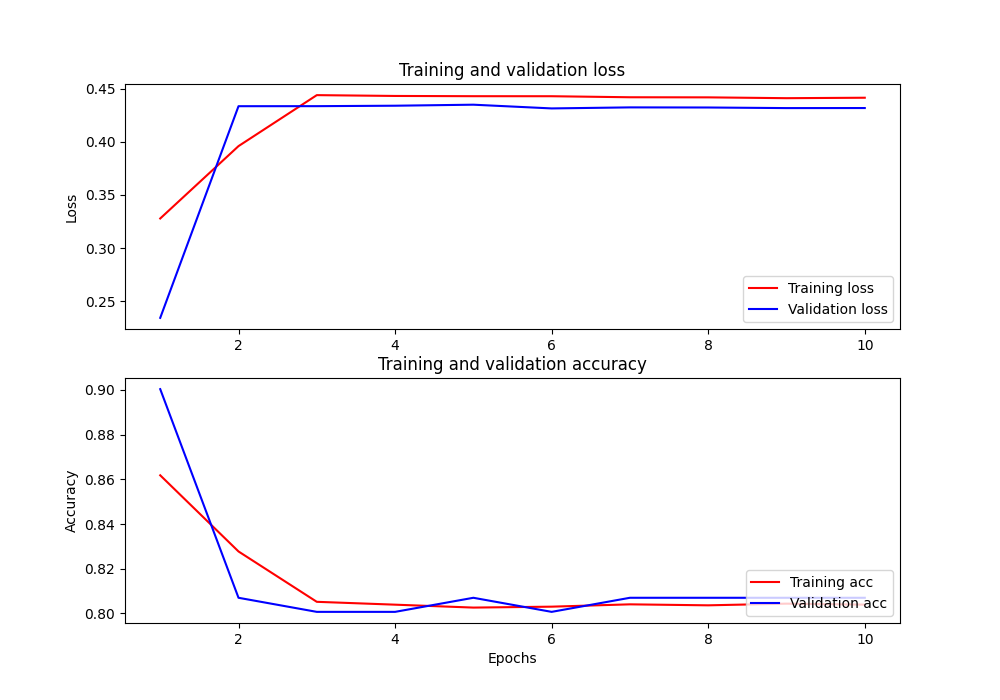
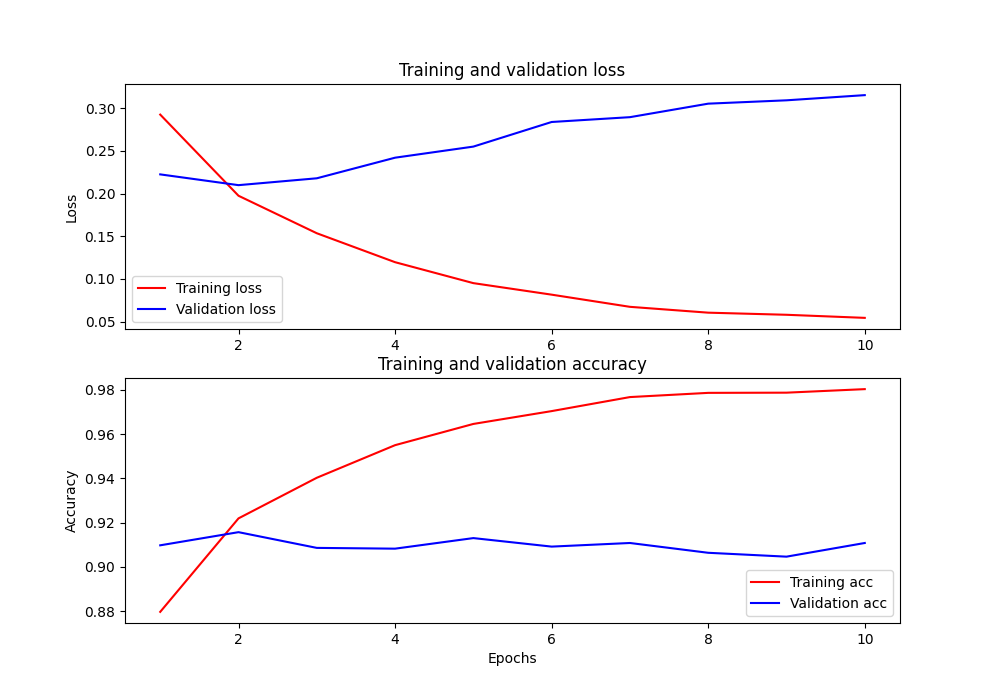
Fix bert training

diff --git a/src/train.py b/src/train.py
@@ -41,10 +41,10 @@ def train(config, model: nn.Module, results_dir):
     lr=config.lr,
     weight_decay=config.weight_decay)
   criterion = nn.BCEWithLogitsLoss()
-  lr_scheduler = get_cosine_schedule_with_warmup(
-    optimizer,
-    num_warmup_steps=config.warmup_steps, 
-    num_training_steps=num_training_steps)
+  # lr_scheduler = get_cosine_schedule_with_warmup(
+  #   optimizer,
+  #   num_warmup_steps=config.warmup_steps, 
+  #   num_training_steps=num_training_steps)
 
   for epoch_num in range(num_epochs):
     model.train()
@@ -55,14 +55,15 @@ def train(config, model: nn.Module, results_dir):
     for batch_iter, batch in enumerate(data_iterator):
       optimizer.zero_grad()
       inputs = batch['input_ids'].to(device, dtype=torch.long)
-      attention_masks = batch['attention_mask'].to(device, dtype=torch.float)
+      attention_masks = batch['attention_mask'].to(device, dtype=torch.long)
+      token_type_ids = batch['token_type_ids'].to(device, dtype=torch.long)
       labels = batch['label'].to(device, dtype=torch.float)
-      output = model(input_id=inputs, mask=attention_masks)
+      output = model(input_ids=inputs, attn_mask=attention_masks, token_type_ids=token_type_ids)
 
       loss = criterion(output, labels)
       loss.backward()
       optimizer.step()
-      lr_scheduler.step()
+      # lr_scheduler.step()
 
       # Calculate statistics
       current_accuracy = compute_accuracy(output, labels)
@@ -79,9 +80,10 @@ def train(config, model: nn.Module, results_dir):
     with torch.no_grad():
       for batch in validation_loader:
         inputs = batch['input_ids'].to(device, dtype=torch.long)
-        attention_masks = batch['attention_mask'].to(device, dtype=torch.float)
+        attention_masks = batch['attention_mask'].to(device, dtype=torch.long)
+        token_type_ids = batch['token_type_ids'].to(device, dtype=torch.long)
         labels = batch['label'].to(device, dtype=torch.float)
-        output = model(input_id=inputs, mask=attention_masks)
+        output = model(input_ids=inputs, attn_mask=attention_masks, token_type_ids=token_type_ids)
         loss = criterion(output, labels)
         val_loss += loss.item()
         val_accuracy += compute_accuracy(output, labels)

diff --git a/src/models/bert.py b/src/models/bert.py
@@ -7,15 +7,19 @@ class BertClassifier(nn.Module):
   def __init__(self, config):
     super(BertClassifier, self).__init__()
     self.config = config
-    self.bert = BertModel.from_pretrained(config.bert_version)
+    self.bert = BertModel.from_pretrained(config.bert_version, return_dict=True)
     self.dropout = nn.Dropout(config.dropout)
     self.linear = nn.Linear(config.output_dim, config.num_classes)
     self.relu = nn.ReLU()
 
-  def forward(self, input_id, mask):
+  def forward(self, input_ids, attn_mask, token_type_ids):
+    output = self.bert(
+      input_ids, 
+      attention_mask=attn_mask, 
+      token_type_ids=token_type_ids)
+    
     # pooled_output - CLS token
-    _, pooled_output = self.bert(input_ids=input_id, attention_mask=mask, return_dict=False)
-    dropout_output = self.dropout(pooled_output)
+    dropout_output = self.dropout(output.pooler_output)
     linear_output = self.linear(dropout_output)
 
     return linear_output

diff --git a/src/data_processing/ev_parser.py b/src/data_processing/ev_parser.py
@@ -29,7 +29,7 @@ class EvDataset(Dataset):
     encoding = self.tokenizer.encode_plus(
       review,
       add_special_tokens=True, # Add [CLS] [SEP] tokens
-      return_token_type_ids=False,
+      return_token_type_ids=True,
       padding='max_length',
       max_length=512, 
       truncation=True,
@@ -39,12 +39,14 @@ class EvDataset(Dataset):
 
     input_ids = encoding['input_ids'].flatten()
     attn_mask = encoding['attention_mask'].flatten()
+    token_type_ids = encoding["token_type_ids"].flatten()
 
     return {
       'review_text': review,
       'input_ids': input_ids,
       'attention_mask': attn_mask,
-      'label': torch.tensor(target, dtype=torch.int)
+      'token_type_ids': token_type_ids,
+      'label': torch.tensor(target, dtype=torch.float)
     }
 
 def create_dataset(split='train'):

diff --git a/src/config/config.py b/src/config/config.py
@@ -19,8 +19,8 @@ def bert_config():
 
 def multilabel_base():
   config = ml_collections.ConfigDict()
-  config.epochs = 2  # 20
-  config.lr = 1e-4
+  config.epochs = 10  # 20
+  config.lr = 5e-5 #1e-4
   config.weight_decay = 0.01
   config.batch_size = 8
   config.warmup_steps = 500
